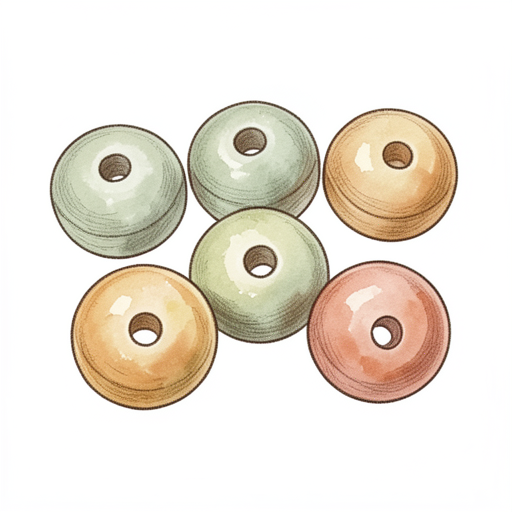
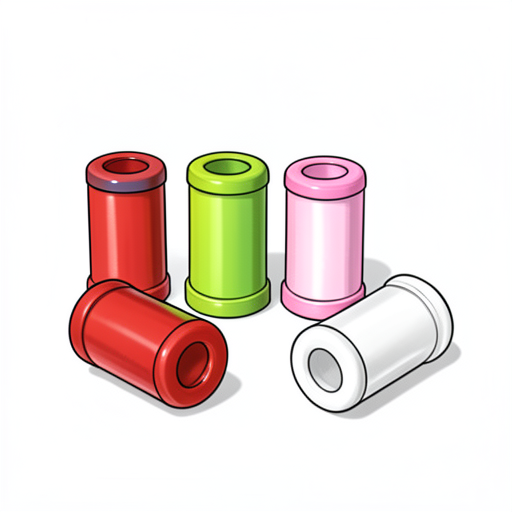
Save generated candidate and queue receipt

diff --git a/data/symbol-white-0.13-arm512/review.html b/data/symbol-white-0.13-arm512/review.html
@@ -1,1 +1,1 @@
-<!doctype html><html lang="sv"><meta charset="utf-8"><title>Bildkandidater</title><style>body{font:16px system-ui;margin:32px;color:#344453;background:white}.cards{display:flex;flex-wrap:wrap;gap:24px}figure{margin:0;width:240px;border:1px solid #ddd;padding:12px}img{width:100%;height:auto}small{color:#666}</style><h1>Bildkandidater</h1><figure><img src="reference.png" alt="Godkänd stilreferens"><figcaption>Stilreferens · se kandidatens metadata för om modellen använder referensbilden som indata.</figcaption></figure><p>Kontrollera handling, händer, borttagning av bakgrund och stil mot referensbilden. Ingen kandidat är publicerad.</p><div class="cards"><figure><img src="FSK_18_78.png" alt="trappa"><figcaption>trappa</figcaption><small>Utkast · granskning krävs</small><details><summary>Före friläggning</summary><img src="raw/FSK_18_78.png" alt="Motivet före bakgrundsborttagning"></details></figure><figure><img src="FSK_19_68.png" alt="keps"><figcaption>keps</figcaption><small>Utkast · granskning krävs</small><details><summary>Före friläggning</summary><img src="raw/FSK_19_68.png" alt="Motivet före bakgrundsborttagning"></details></figure><figure><img src="FSK_20_42.png" alt="pannkaka"><figcaption>pannkaka</figcaption><small>Utkast · granskning krävs</small><details><summary>Före friläggning</summary><img src="raw/FSK_20_42.png" alt="Motivet före bakgrundsborttagning"></details></figure><figure><img src="FSK_20_59.png" alt="knäckebröd"><figcaption>knäckebröd</figcaption><small>Utkast · granskning krävs</small><details><summary>Före friläggning</summary><img src="raw/FSK_20_59.png" alt="Motivet före bakgrundsborttagning"></details></figure><figure><img src="FSK_21_27.png" alt="tejp"><figcaption>tejp</figcaption><small>Utkast · granskning krävs</small><details><summary>Före friläggning</summary><img src="raw/FSK_21_27.png" alt="Motivet före bakgrundsborttagning"></details></figure><figure><img src="FSK_21_35.png" alt="overall"><figcaption>overall</figcaption><small>Utkast · granskning krävs</small><details><summary>Före friläggning</summary><img src="raw/FSK_21_35.png" alt="Motivet före bakgrundsborttagning"></details></figure><figure><img src="FSK_25_28.png" alt="ritblock"><figcaption>ritblock</figcaption><small>Utkast · granskning krävs</small><details><summary>Före friläggning</summary><img src="raw/FSK_25_28.png" alt="Motivet före bakgrundsborttagning"></details></figure><figure><img src="FSK_25_49.png" alt="solhatt"><figcaption>solhatt</figcaption><small>Utkast · granskning krävs</small><details><summary>Före friläggning</summary><img src="raw/FSK_25_49.png" alt="Motivet före bakgrundsborttagning"></details></figure><figure><img src="FSK_27_10.png" alt="häst"><figcaption>häst</figcaption><small>Utkast · granskning krävs</small><details><summary>Före friläggning</summary><img src="raw/FSK_27_10.png" alt="Motivet före bakgrundsborttagning"></details></figure><figure><img src="FSK_27_93.png" alt="glasögon"><figcaption>glasögon</figcaption><small>Utkast · granskning krävs</small><details><summary>Före friläggning</summary><img src="raw/FSK_27_93.png" alt="Motivet före bakgrundsborttagning"></details></figure><figure><img src="FSK_29_11.png" alt="kastrull"><figcaption>kastrull</figcaption><small>Utkast · granskning krävs</small><details><summary>Före friläggning</summary><img src="raw/FSK_29_11.png" alt="Motivet före bakgrundsborttagning"></details></figure><figure><img src="FSK_31_34.png" alt="fjäder"><figcaption>fjäder</figcaption><small>Utkast · granskning krävs</small><details><summary>Före friläggning</summary><img src="raw/FSK_31_34.png" alt="Motivet före bakgrundsborttagning"></details></figure><figure><img src="FSK_32_27.png" alt="bokhylla"><figcaption>bokhylla</figcaption><small>Utkast · granskning krävs</small><details><summary>Före friläggning</summary><img src="raw/FSK_32_27.png" alt="Motivet före bakgrundsborttagning"></details></figure><figure><img src="FSK_32_47.png" alt="termometer"><figcaption>termometer</figcaption><small>Utkast · granskning krävs</small><details><summary>Före friläggning</summary><img src="raw/FSK_32_47.png" alt="Motivet före bakgrundsborttagning"></details></figure><figure><img src="FSK_90_05.png" alt="skor"><figcaption>skor</figcaption><small>Utkast · granskning krävs</small><details><summary>Före friläggning</summary><img src="raw/FSK_90_05.png" alt="Motivet före bakgrundsborttagning"></details></figure><figure><img src="FSK_91_01.png" alt="mössa"><figcaption>mössa</figcaption><small>Utkast · granskning krävs</small><details><summary>Före friläggning</summary><img src="raw/FSK_91_01.png" alt="Motivet före bakgrundsborttagning"></details></figure><figure><img src="FSK_91_20.png" alt="haklapp"><figcaption>haklapp</figcaption><small>Utkast · granskning krävs</small><details><summary>Före friläggning</summary><img src="raw/FSK_91_20.png" alt="Motivet före bakgrundsborttagning"></details></figure><figure><img src="FSK_91_27.png" alt="mjölk"><figcaption>mjölk</figcaption><small>Utkast · granskning krävs</small><details><summary>Före friläggning</summary><img src="raw/FSK_91_27.png" alt="Motivet före bakgrundsborttagning"></details></figure><figure><img src="FSK_91_30.png" alt="stol"><figcaption>stol</figcaption><small>Utkast · granskning krävs</small><details><summary>Före friläggning</summary><img src="raw/FSK_91_30.png" alt="Motivet före bakgrundsborttagning"></details></figure><figure><img src="FSK_91_32.png" alt="kudde"><figcaption>kudde</figcaption><small>Utkast · granskning krävs</small><details><summary>Före friläggning</summary><img src="raw/FSK_91_32.png" alt="Motivet före bakgrundsborttagning"></details></figure><figure><img src="FSK_91_55.png" alt="gunga"><figcaption>gunga</figcaption><small>Utkast · granskning krävs</small><details><summary>Före friläggning</summary><img src="raw/FSK_91_55.png" alt="Motivet före bakgrundsborttagning"></details></figure><figure><img src="FSK_91_58.png" alt="sparkcykel"><figcaption>sparkcykel</figcaption><small>Utkast · granskning krävs</small><details><summary>Före friläggning</summary><img src="raw/FSK_91_58.png" alt="Motivet före bakgrundsborttagning"></details></figure><figure><img src="FSK_91_64.png" alt="sol"><figcaption>sol</figcaption><small>Utkast · granskning krävs</small><details><summary>Före friläggning</summary><img src="raw/FSK_91_64.png" alt="Motivet före bakgrundsborttagning"></details></figure><figure><img src="FSK_91_66.png" alt="snö"><figcaption>snö</figcaption><small>Utkast · granskning krävs</small><details><summary>Före friläggning</summary><img src="raw/FSK_91_66.png" alt="Motivet före bakgrundsborttagning"></details></figure><figure><img src="FSK_92_02.png" alt="tvätta händer"><figcaption>tvätta händer</figcaption><small>Utkast · granskning krävs</small><details><summary>Före friläggning</summary><img src="raw/FSK_92_02.png" alt="Motivet före bakgrundsborttagning"></details></figure><figure><img src="FSK_92_10.png" alt="krypa"><figcaption>krypa</figcaption><small>Utkast · granskning krävs</small><details><summary>Före friläggning</summary><img src="raw/FSK_92_10.png" alt="Motivet före bakgrundsborttagning"></details></figure></div></html>
+<!doctype html><html lang="sv"><meta charset="utf-8"><title>Bildkandidater</title><style>body{font:16px system-ui;margin:32px;color:#344453;background:white}.cards{display:flex;flex-wrap:wrap;gap:24px}figure{margin:0;width:240px;border:1px solid #ddd;padding:12px}img{width:100%;height:auto}small{color:#666}</style><h1>Bildkandidater</h1><figure><img src="reference.png" alt="Godkänd stilreferens"><figcaption>Stilreferens · se kandidatens metadata för om modellen använder referensbilden som indata.</figcaption></figure><p>Kontrollera handling, händer, borttagning av bakgrund och stil mot referensbilden. Ingen kandidat är publicerad.</p><div class="cards"><figure><img src="FSK_18_78.png" alt="trappa"><figcaption>trappa</figcaption><small>Utkast · granskning krävs</small><details><summary>Före friläggning</summary><img src="raw/FSK_18_78.png" alt="Motivet före bakgrundsborttagning"></details></figure><figure><img src="FSK_19_68.png" alt="keps"><figcaption>keps</figcaption><small>Utkast · granskning krävs</small><details><summary>Före friläggning</summary><img src="raw/FSK_19_68.png" alt="Motivet före bakgrundsborttagning"></details></figure><figure><img src="FSK_20_02.png" alt="pärla"><figcaption>pärla</figcaption><small>Utkast · granskning krävs</small><details><summary>Före friläggning</summary><img src="raw/FSK_20_02.png" alt="Motivet före bakgrundsborttagning"></details></figure><figure><img src="FSK_20_42.png" alt="pannkaka"><figcaption>pannkaka</figcaption><small>Utkast · granskning krävs</small><details><summary>Före friläggning</summary><img src="raw/FSK_20_42.png" alt="Motivet före bakgrundsborttagning"></details></figure><figure><img src="FSK_20_59.png" alt="knäckebröd"><figcaption>knäckebröd</figcaption><small>Utkast · granskning krävs</small><details><summary>Före friläggning</summary><img src="raw/FSK_20_59.png" alt="Motivet före bakgrundsborttagning"></details></figure><figure><img src="FSK_21_27.png" alt="tejp"><figcaption>tejp</figcaption><small>Utkast · granskning krävs</small><details><summary>Före friläggning</summary><img src="raw/FSK_21_27.png" alt="Motivet före bakgrundsborttagning"></details></figure><figure><img src="FSK_21_35.png" alt="overall"><figcaption>overall</figcaption><small>Utkast · granskning krävs</small><details><summary>Före friläggning</summary><img src="raw/FSK_21_35.png" alt="Motivet före bakgrundsborttagning"></details></figure><figure><img src="FSK_25_28.png" alt="ritblock"><figcaption>ritblock</figcaption><small>Utkast · granskning krävs</small><details><summary>Före friläggning</summary><img src="raw/FSK_25_28.png" alt="Motivet före bakgrundsborttagning"></details></figure><figure><img src="FSK_25_49.png" alt="solhatt"><figcaption>solhatt</figcaption><small>Utkast · granskning krävs</small><details><summary>Före friläggning</summary><img src="raw/FSK_25_49.png" alt="Motivet före bakgrundsborttagning"></details></figure><figure><img src="FSK_27_10.png" alt="häst"><figcaption>häst</figcaption><small>Utkast · granskning krävs</small><details><summary>Före friläggning</summary><img src="raw/FSK_27_10.png" alt="Motivet före bakgrundsborttagning"></details></figure><figure><img src="FSK_27_93.png" alt="glasögon"><figcaption>glasögon</figcaption><small>Utkast · granskning krävs</small><details><summary>Före friläggning</summary><img src="raw/FSK_27_93.png" alt="Motivet före bakgrundsborttagning"></details></figure><figure><img src="FSK_29_11.png" alt="kastrull"><figcaption>kastrull</figcaption><small>Utkast · granskning krävs</small><details><summary>Före friläggning</summary><img src="raw/FSK_29_11.png" alt="Motivet före bakgrundsborttagning"></details></figure><figure><img src="FSK_31_34.png" alt="fjäder"><figcaption>fjäder</figcaption><small>Utkast · granskning krävs</small><details><summary>Före friläggning</summary><img src="raw/FSK_31_34.png" alt="Motivet före bakgrundsborttagning"></details></figure><figure><img src="FSK_32_27.png" alt="bokhylla"><figcaption>bokhylla</figcaption><small>Utkast · granskning krävs</small><details><summary>Före friläggning</summary><img src="raw/FSK_32_27.png" alt="Motivet före bakgrundsborttagning"></details></figure><figure><img src="FSK_32_47.png" alt="termometer"><figcaption>termometer</figcaption><small>Utkast · granskning krävs</small><details><summary>Före friläggning</summary><img src="raw/FSK_32_47.png" alt="Motivet före bakgrundsborttagning"></details></figure><figure><img src="FSK_90_05.png" alt="skor"><figcaption>skor</figcaption><small>Utkast · granskning krävs</small><details><summary>Före friläggning</summary><img src="raw/FSK_90_05.png" alt="Motivet före bakgrundsborttagning"></details></figure><figure><img src="FSK_91_01.png" alt="mössa"><figcaption>mössa</figcaption><small>Utkast · granskning krävs</small><details><summary>Före friläggning</summary><img src="raw/FSK_91_01.png" alt="Motivet före bakgrundsborttagning"></details></figure><figure><img src="FSK_91_20.png" alt="haklapp"><figcaption>haklapp</figcaption><small>Utkast · granskning krävs</small><details><summary>Före friläggning</summary><img src="raw/FSK_91_20.png" alt="Motivet före bakgrundsborttagning"></details></figure><figure><img src="FSK_91_27.png" alt="mjölk"><figcaption>mjölk</figcaption><small>Utkast · granskning krävs</small><details><summary>Före friläggning</summary><img src="raw/FSK_91_27.png" alt="Motivet före bakgrundsborttagning"></details></figure><figure><img src="FSK_91_30.png" alt="stol"><figcaption>stol</figcaption><small>Utkast · granskning krävs</small><details><summary>Före friläggning</summary><img src="raw/FSK_91_30.png" alt="Motivet före bakgrundsborttagning"></details></figure><figure><img src="FSK_91_32.png" alt="kudde"><figcaption>kudde</figcaption><small>Utkast · granskning krävs</small><details><summary>Före friläggning</summary><img src="raw/FSK_91_32.png" alt="Motivet före bakgrundsborttagning"></details></figure><figure><img src="FSK_91_55.png" alt="gunga"><figcaption>gunga</figcaption><small>Utkast · granskning krävs</small><details><summary>Före friläggning</summary><img src="raw/FSK_91_55.png" alt="Motivet före bakgrundsborttagning"></details></figure><figure><img src="FSK_91_58.png" alt="sparkcykel"><figcaption>sparkcykel</figcaption><small>Utkast · granskning krävs</small><details><summary>Före friläggning</summary><img src="raw/FSK_91_58.png" alt="Motivet före bakgrundsborttagning"></details></figure><figure><img src="FSK_91_64.png" alt="sol"><figcaption>sol</figcaption><small>Utkast · granskning krävs</small><details><summary>Före friläggning</summary><img src="raw/FSK_91_64.png" alt="Motivet före bakgrundsborttagning"></details></figure><figure><img src="FSK_91_66.png" alt="snö"><figcaption>snö</figcaption><small>Utkast · granskning krävs</small><details><summary>Före friläggning</summary><img src="raw/FSK_91_66.png" alt="Motivet före bakgrundsborttagning"></details></figure><figure><img src="FSK_92_02.png" alt="tvätta händer"><figcaption>tvätta händer</figcaption><small>Utkast · granskning krävs</small><details><summary>Före friläggning</summary><img src="raw/FSK_92_02.png" alt="Motivet före bakgrundsborttagning"></details></figure><figure><img src="FSK_92_10.png" alt="krypa"><figcaption>krypa</figcaption><small>Utkast · granskning krävs</small><details><summary>Före friläggning</summary><img src="raw/FSK_92_10.png" alt="Motivet före bakgrundsborttagning"></details></figure></div></html>
